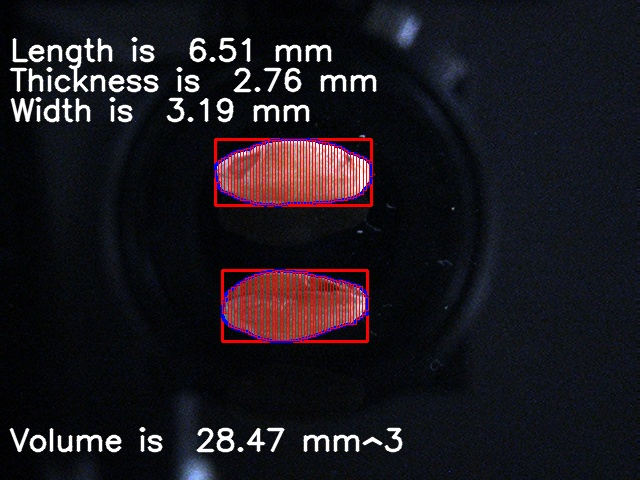
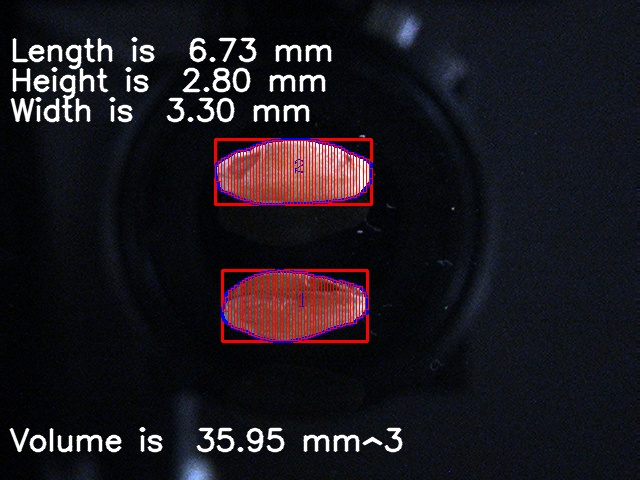
..

diff --git a/volume.py b/volume.py
@@ -1,6 +1,6 @@
 import cv2 as cv
 import numpy as np
-import time
+import math
 
 delta = 5
 
@@ -200,6 +200,7 @@ def procView(HSVlower, HSVupper, img, num_slice, ratio, display, auto=False):
 
     contours, hierarchy = cv.findContours(thresh, 1, 2)
 
+    count = 0
     result = []
     twoConts = []
     for cont in contours:
@@ -214,6 +215,10 @@ def procView(HSVlower, HSVupper, img, num_slice, ratio, display, auto=False):
         cv.drawContours(img, [box], 0, (0, 0, 255), 2)
         twoConts.append(cont)
         result.append(rect[1])
+
+        count += 1
+        cv.putText(img, str(count), (math.ceil(rect[0][0]), math.ceil(rect[0][1])), cv.FONT_HERSHEY_COMPLEX,
+                   0.6, (255, 0, 0), 1)
 
     x, y, w, h = cv.boundingRect(twoConts[0])
     box_mirror = np.array([(x, y), (x, y + h), (x + w, y), (x + w, y + h)])
@@ -230,13 +235,22 @@ def procView(HSVlower, HSVupper, img, num_slice, ratio, display, auto=False):
             cv.drawContours(img, [twoConts[1]], 0, (255, 0, 0), 2)
             drawLine(img, box_target, twoConts[1], num_slice)
 
-    length_m = result[0][1] / ratio
-    width = result[0][0] / ratio
+    length_m_pixel = result[0][1]
+    width_pixel = result[0][0]
+    if length_m_pixel < width_pixel:
+        width_pixel, length_m_pixel = length_m_pixel, width_pixel
+    length_m = length_m_pixel / ratio
+    width = width_pixel / ratio
     rectArray_m = slicingRect(box_mirror, twoConts[0], num_slice)
 
     if len(twoConts) > 1:
-        length_t = result[1][1] / ratio
-        height = result[1][0] / ratio
+        length_t = result[1][1]
+        height = result[1][0]
+        if length_t < height:
+            height, length_t = length_t, height
+        r = length_t / length_m_pixel  # length_t / length_m
+        length_t = length_t / ratio / r
+        height = height / ratio / r
         rectArray_t = slicingRect(box_target, twoConts[1], num_slice)
     else:
         length_t = length_m
@@ -257,7 +271,7 @@ def displayResult(length_t, length_m, width, height, volume, img, imgnameForSavi
     width = width * r
     length = "Length is  %.2f" % length_t + " mm"
     width = "Width is  %.2f" % width + " mm"
-    height = "Thickness is  %.2f" % height + " mm"
+    height = "Height is  %.2f" % height + " mm"
     volume = "Volume is  %.2f" % volume + " mm^3"
 
     cv.putText(img, length, (10, 60), 0, 1, (255, 255, 255), 2, cv.LINE_AA)

diff --git a/main.py b/main.py
@@ -34,6 +34,7 @@ def main():
             img = cv.imread(path)
             n = len(filename)
             prefixName = filename[0:n - 5]
+            viewName = filename[8:9]
 
             # set images name for saving
             imgnameForSaving = (directory + '/' + prefixName + 'M-' + str(numSlice) + '.jpg')
@@ -42,8 +43,17 @@ def main():
             display = True
             model = "ellip"  # rect
 
+            # if viewName == 'L':
+            #     ratio = 22.525169428    # target : 115/5.1054
+            # else:
+            #     ratio = 23.308653582  # target: 119/5.1054
+            #     # ratio = 21.937556313    # mirror: 112/5.1054
+
             # pixel and mm ratio
-            ratio = 23.954372623574  # 36.9496855346
+            # ratio = 23.954372623574  # 36.9496855346
+            ratio = 21.5458142359 # 110/5.1054
+            # ratio = 23.308653582    # R
+            # ratio = 22.525169428    # L
 
             # set the HSV range for main view for wheat
             HSV_lower = np.array([0, 0, vint])
@@ -73,7 +83,7 @@ def main():
 
     df = pd.DataFrame(csv_data,
                       columns=['Img Name', 'Length (mm)', 'Width (mm)', 'Height (mm)','Volume (mm\u00b3)'])
-    df.to_excel("output.xlsx", sheet_name=csv_folder_name, index=False)
+    #df.to_excel("output.xlsx", sheet_name=csv_folder_name, index=False)
     return
 
 

diff --git a/SlicingResult.py b/SlicingResult.py
@@ -81,13 +81,14 @@ def GetLengthAndWidth(seedID, size, num, view, angle):
     print("{} side target(pixel): length:{} width:{}".format(view, targetLengthPixel, targetWidthPixel))
     print("{} side mirror(pixel): length:{} width:{}".format(view, mirrorLengthPixel, mirrorWidthPixel))
 
-    ratio1 = 5.1054 / 117.785
-    ratio2 = 5.1054 / 109.5
+    ratio = 5.1054 / 110 # 117.785
+    # ratio2 = 5.1054 / 109 # 109.5
+    r = targetLengthPixel / mirrorLengthPixel
 
-    targetLength = targetLengthPixel * ratio1
-    targetWidth = targetWidthPixel * ratio1
-    mirrorLength = mirrorLengthPixel * ratio2
-    mirrorWidth = mirrorWidthPixel * ratio2
+    targetLength = targetLengthPixel * ratio / r
+    targetWidth = targetWidthPixel * ratio / r
+    mirrorLength = mirrorLengthPixel * ratio
+    mirrorWidth = mirrorWidthPixel * ratio
 
     print("{} side target: length:{} mm, width:{} mm".format(view, targetLength, targetWidth))
     print("{} side mirror: length:{} mm, width:{} mm".format(view, mirrorLength, mirrorWidth))
